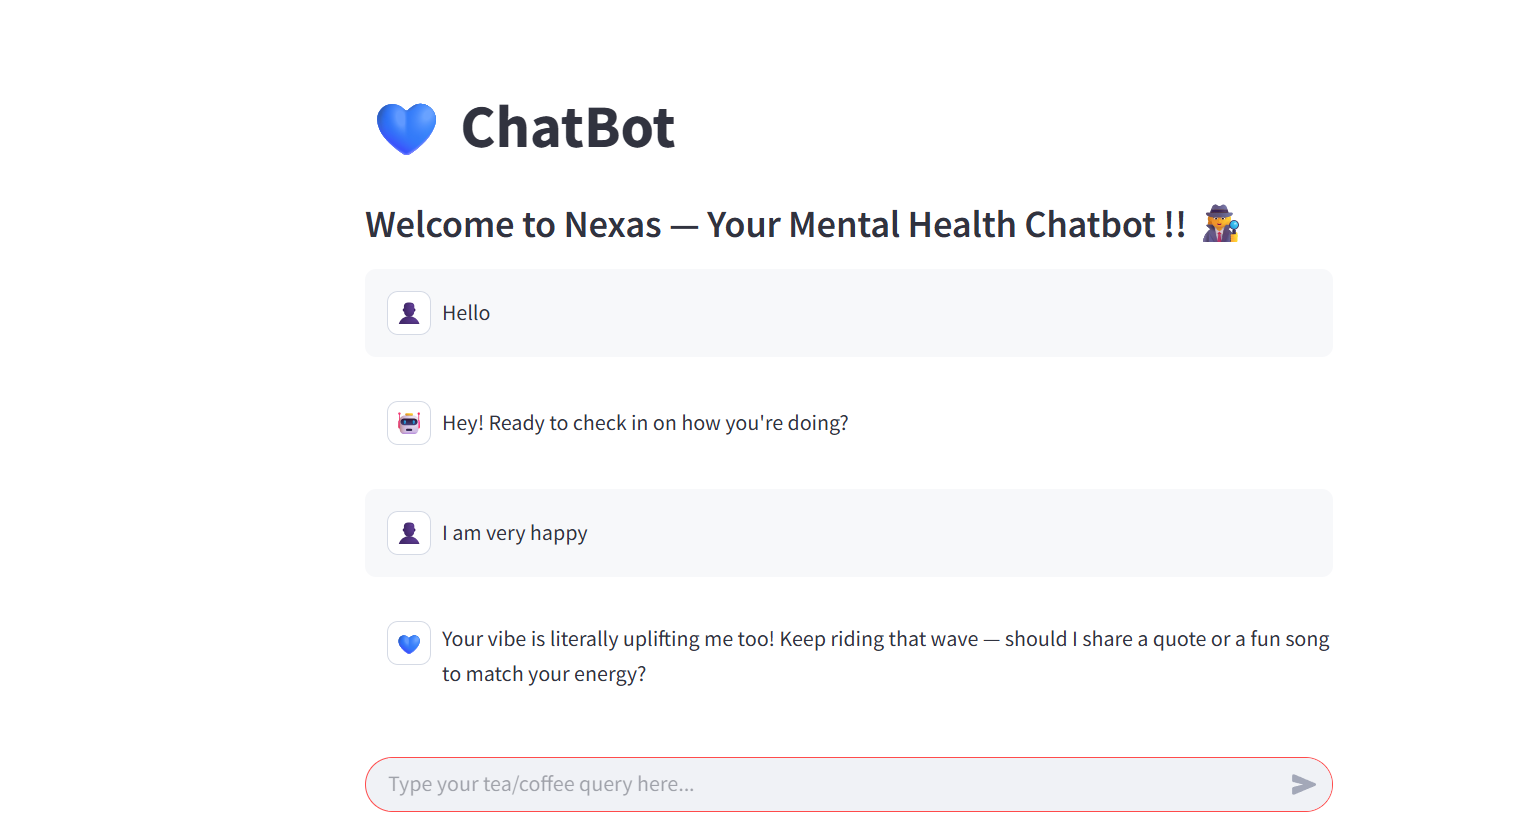
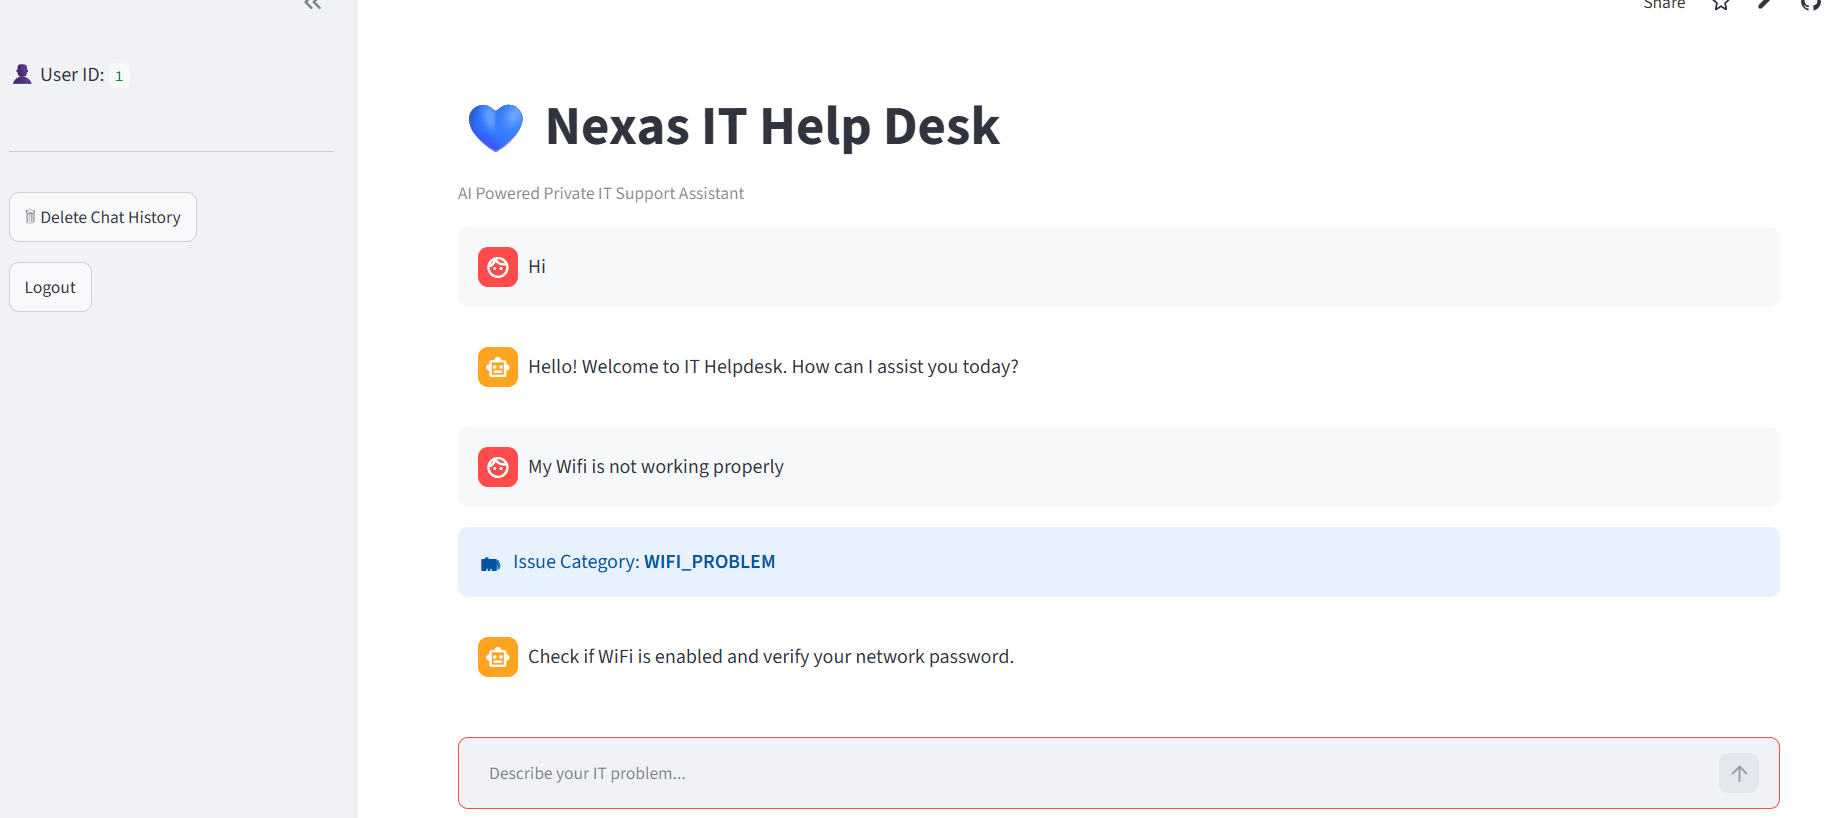
update portfolio

diff --git a/index.htm b/index.htm
@@ -135,27 +135,33 @@
             <div class="projects-grid">
                 <div class="project-card animate-on-scroll">
                     <img src="project1.png" alt="Project 1 Screenshot">
-                    <h3>Mental-Health Chatbot</h3>
-                    <p>This is an interactive mental health support chatbot built using Python, PyTorch, NLP, and Machine Learning, with a Streamlit-based UI for easy accessibility.</p>
-                    <p><strong>Tech-Stack :</strong> PyTorch,Python,NLP</p>
+                    <h3>NLP Chatbot</h3>
+                  <p>
+An interactive IT Help Desk chatbot . It uses tokenization, stemming, and Bag of Words to understand user queries and provide predefined solutions for common IT issues like WiFi problems, network errors, and system troubleshooting.
+</p>
+                    <p><strong>Tech-Stack :</strong> PyTorch,Python,NLP,SQLite</p>
                     <div class="project-links">
-                        <a href="https://github.com/diyaaghosh/Mental-Health-Chatbot" target="_blank" class="btn">GitHub</a>
-                        <a href="https://edfdoxbn7gydgcorh7tugp.streamlit.app/" target="_blank" class="btn">Live Demo</a>
+                        <a href="https://github.com/diyaaghosh/NLP-Chatbot" target="_blank" class="btn">GitHub</a>
+                        <a href="https://nlp-chatbot-v7fydrrhbofgct953f42gi.streamlit.app/" target="_blank" class="btn">Live Demo</a>
 
                     </div>
                 </div>
         
                 <div class="project-card animate-on-scroll">
                     <img src="project2.png" alt="Project 2 Screenshot">
-                    <h3>Plagiarism Detecter</h3>
-                    <p>Plagiarism Detection System using Word2Vec + Deep Neural Network An interactive Streamlit web app that detects plagiarism between a source text and a suspected text using Word2Vec embeddings and a trained Deep Neural Network.</p>
-                    <p><strong>Tech-Stack :</strong>Python ,Tensorflow,NLP</p>
+                    <h3>StudyMate-AI
+</h3>
+                    <p>
+An AI-powered Multi-PDF Educational Assistant using RAG to answer questions from uploaded documents. It provides context-based answers, source citations, topic summaries, and AI-generated quizzes with explanations for effective learning.
+</p>
+                    <p><strong>Tech-Stack :</strong>Python ,LangChain,Streamlit,Sentence Transformers</p>
                     <div class="project-links">
-                        <a href="https://github.com/diyaaghosh/Plagiarism-Detector" target="_blank" class="btn">GitHub</a>
-                        <a href="https://your-live-project.com" target="_blank" class="btn">Live Demo</a>
+                        <a href="https://github.com/diyaaghosh/StudyMate-AI" target="_blank" class="btn">GitHub</a>
+                        <a href="https://studymate-ai-bvcysgs8qogootukmzpm6f.streamlit.app/" target="_blank" class="btn">Live Demo</a>
                     </div>
                 </div>
         
+              
                 <div class="project-card animate-on-scroll">
                     <img src="project3.png" alt="Project 3 Screenshot">
                     <h3>Portfolio Website</h3>
